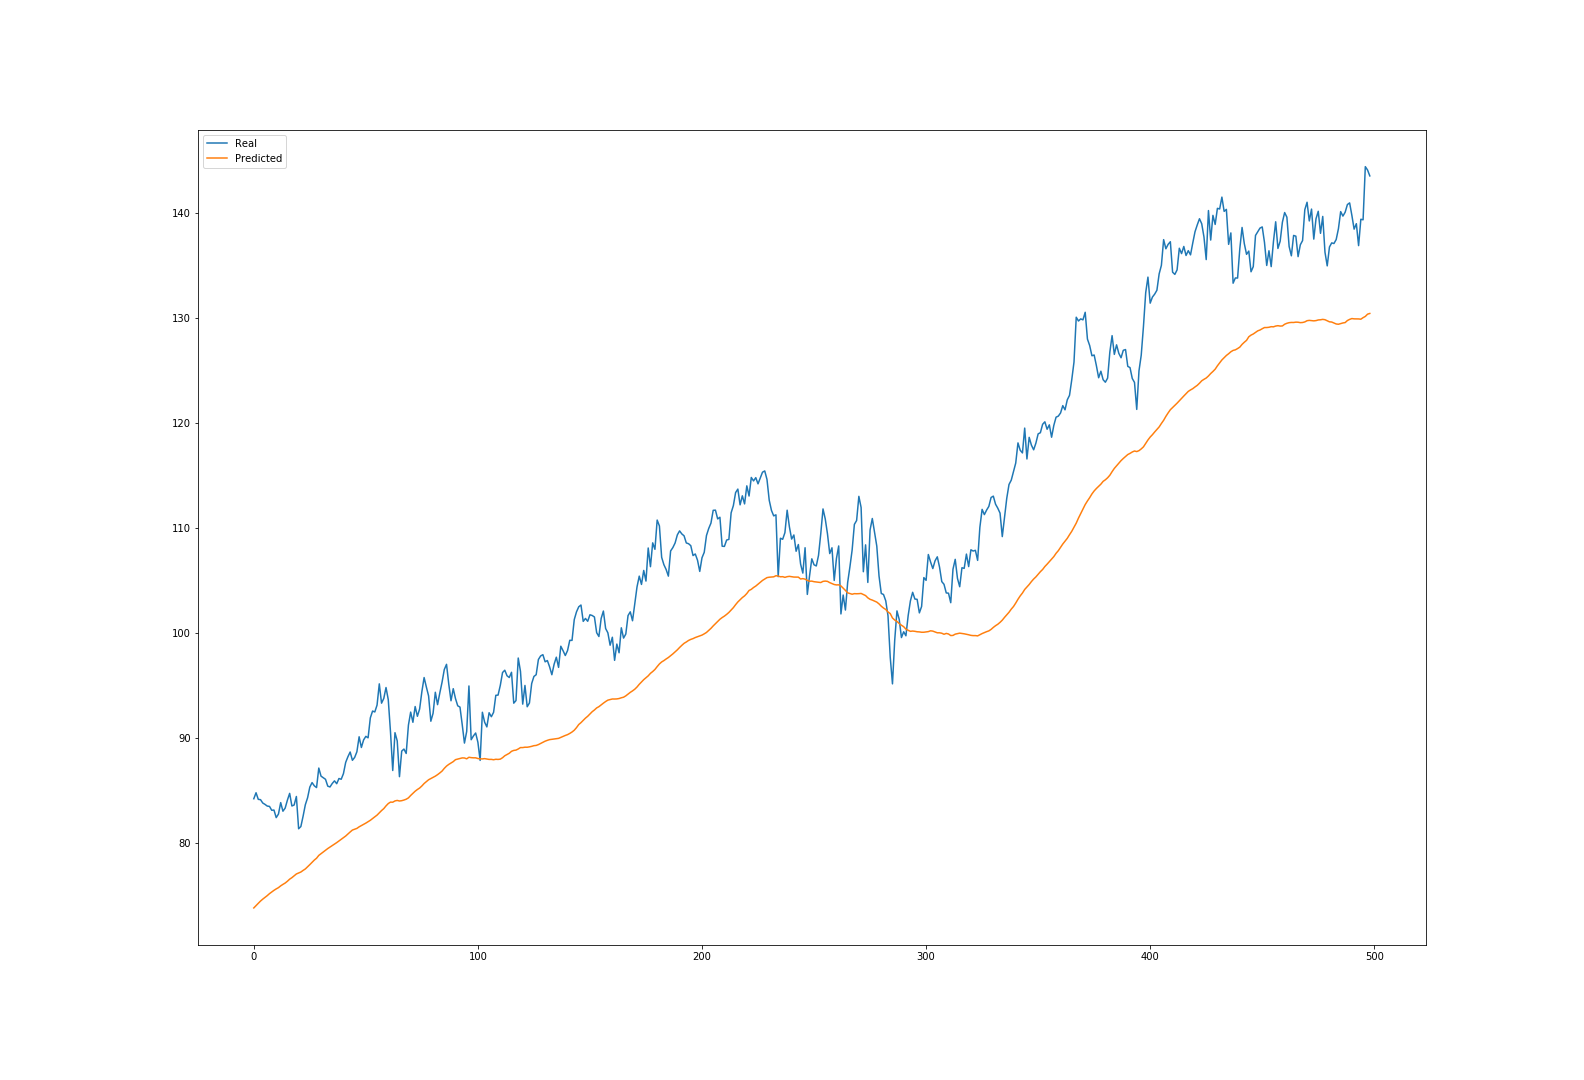
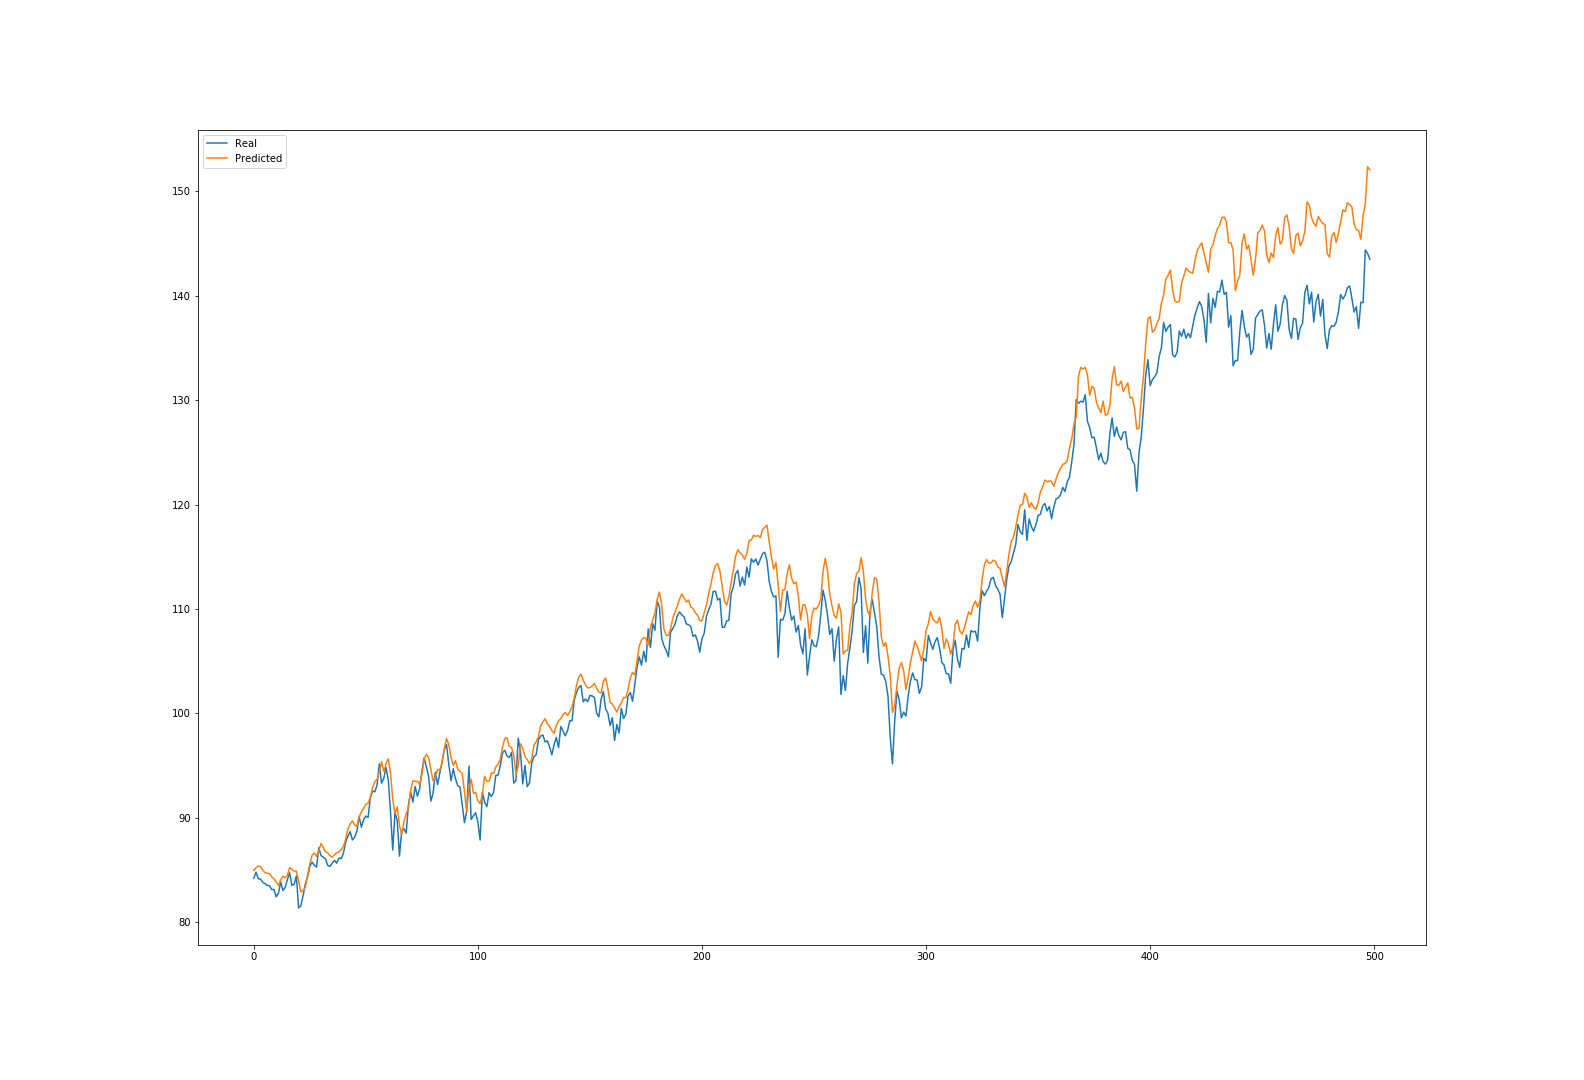
Deleted depreciated files and added feature handling

Changed region(s): [[0.1547, 0.1833, 0.8662, 0.825], [0.1547, 0.7333, 0.1856, 0.7639]]

diff --git a/stock_pred.py b/stock_pred.py
@@ -5,12 +5,14 @@ np.random.seed(4)
 
 
 def train_bot(file_path, history_points, number_of_epochs, two_lstm_layers, number_of_neurons_lstm,
-              two_layers_second_branch, number_of_neurons_second_branch, dropout_rate):
+              two_layers_second_branch, number_of_neurons_second_branch, dropout_rate, s_and_p_500):
     # Model trains and predicts based on the last 50 days of trading
+
 
     # Get the data
     ohlcv_histories, technical_indicators, next_day_open_values, unscaled_y, y_normaliser = csv_to_dataset(file_path,
-                                                                                                           history_points)
+                                                                                                           history_points,
+                                                                                                           s_and_p_500)
 
     # Train-Test Set split
     test_split = 0.9
@@ -24,6 +26,10 @@ def train_bot(file_path, history_points, number_of_epochs, two_lstm_layers, numb
     unscaled_y_test = unscaled_y[n:]
 
     # Calls the function to build the model
+    number_of_lstm_features = 5
+    if s_and_p_500:
+        number_of_lstm_features += 1
+
     model = build_model(history_points=history_points, technical_indicators=technical_indicators,
                         two_lstm_layers=two_lstm_layers, number_of_neurons_lstm=number_of_neurons_lstm,
                         two_layers_second_branch=two_layers_second_branch,

diff --git a/data_preprocessing.py b/data_preprocessing.py
@@ -4,7 +4,7 @@ import numpy as np
 np.random.seed(4)
 
 
-def csv_to_dataset(csv_path, history_points):
+def csv_to_dataset(csv_path, history_points, s_and_p_500):
     print("Start csv_to_dataset")
     # Read the csv
     data = pd.read_csv(csv_path)
@@ -28,8 +28,8 @@ def csv_to_dataset(csv_path, history_points):
     print(stock_index.head())
 
     # Merge
-    # Delete the comment to use S&P 500! Be aware of the LSTM Input
-    #data = pd.merge(data, stock_index, on='timestamp')
+    if s_and_p_500:
+        data = pd.merge(data, stock_index, on='timestamp')
     print("Before reordering")
     print(data.head())
     print(data.shape)
